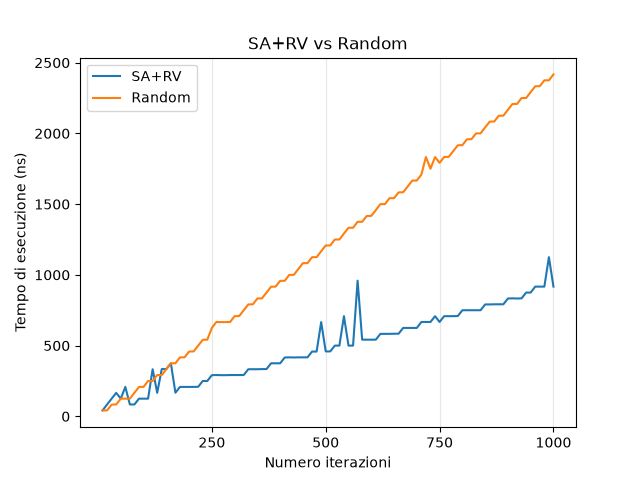
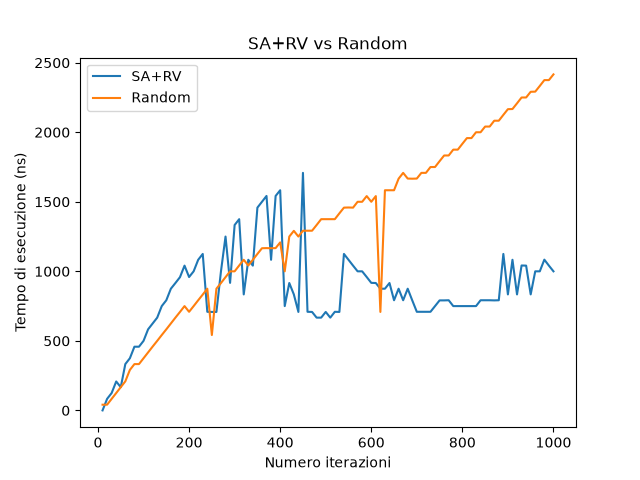
prime_probe

diff --git a/lap-training/lap.c b/lap-training/lap.c
@@ -1,0 +1,202 @@
+#include <stdio.h>
+#include <stdlib.h>
+#include <mach/mach_time.h>
+
+#define DATA_SIZE (1024*1024)
+#define STRIDE 32
+
+uint8_t data_buf[DATA_SIZE];
+
+struct Node {
+    struct Node *next;
+    uint8_t *data;
+};
+
+#define LAP_ITERS 500
+
+#define NODES (LAP_ITERS + 1)
+
+struct Node nodes[NODES];
+
+#define PROBE_SIZE (64*1024*1024)
+uint8_t probe_buf[PROBE_SIZE] = {0};
+
+#define EVICTION_SIZE 8
+uint8_t *eviction_set[EVICTION_SIZE];
+
+#define CACHELINE_SIZE 128
+#define BATCH_ROUNDS 150
+
+
+// --- INLINE ASSEMBLY HELPERS ---
+static inline void maccess(const void *ptr) {
+    asm volatile("ldr xzr, [%0]" : : "r"(ptr) : "memory");
+}
+
+static inline void serialize(void) {
+    asm volatile("dsb sy; isb" ::: "memory");
+}
+
+void walk(struct Node *n)
+{
+    while(n != NULL)
+    {
+        volatile uint8_t x = *(n->data);
+        n = n->next;
+    }
+}
+
+static inline uint64_t get_ticks(void) {
+    uint64_t val;
+    asm volatile("isb; mrs %0, cntvct_el0" : "=r"(val) :: "memory");
+    return val;
+}
+
+static uint64_t measure_target_latency_batch(const void *ptr) {
+    uint64_t start = get_ticks();
+    for (int i = 0; i < BATCH_ROUNDS; i++) {
+        maccess(ptr);
+    }
+    serialize();
+    uint64_t end = get_ticks();
+    return end - start;
+}
+
+// --- COSTRIZIONE EMPIRICA EVICTION SET ---
+
+#define CANDIDATE_POOL_SIZE 32 // Gruppo iniziale sufficiente per garantire 8 collisioni
+
+// Funzione ausiliaria: verifica se l'INTERO gruppo 'group' caccia via 'target_ptr'
+static int test_group_evicts_target(void *target_ptr, uint8_t **group, int group_size) {
+    int evicts = 0;
+
+    for (int trial = 0; trial < 8; trial++) {
+        // 1. Metti il target in cache L1D
+        maccess(target_ptr);
+        serialize();
+
+        // 2. Accedi a TUTTE le linee valide del gruppo
+        for (int i = 0; i < group_size; i++) {
+            if (group[i] != NULL) {
+                maccess(group[i]);
+            }
+        }
+        serialize();
+
+        // 3. Misura se il target è caduto fuori dalla L1D
+        if (measure_target_latency_batch(target_ptr) > 1) {
+            evicts++;
+        }
+    }
+
+    return (evicts >= 6); // Ritorna vero se espelle con successo almeno 6 volte su 8
+}
+
+// --- COSTRUZIONE TOP-DOWN (GROUP REDUCTION) EVICTION SET ---
+void find_eviction_set(void *target_ptr) {
+    uint8_t *candidates[CANDIDATE_POOL_SIZE];
+    int cand_count = 0;
+
+    uintptr_t target_page_offset = ((uintptr_t)target_ptr >> 7) & 0x3F;
+    size_t total_lines = PROBE_SIZE / CACHELINE_SIZE;
+
+    printf("[*] Raccolta del gruppo iniziale di 32 candidati per %p...\n", target_ptr);
+
+    // FASE 1: Raccogli 32 candidati che hanno gli stessi bit di offset (Bit 7..11)
+    for (size_t i = 0; i < total_lines && cand_count < CANDIDATE_POOL_SIZE; i++) {
+        uint8_t *cand = &probe_buf[i * CACHELINE_SIZE];
+        if (cand == target_ptr) continue;
+
+        uintptr_t cand_page_offset = ((uintptr_t)cand >> 7) & 0x3F;
+        if (cand_page_offset == target_page_offset) {
+            candidates[cand_count++] = cand;
+        }
+    }
+
+    if (cand_count < CANDIDATE_POOL_SIZE) {
+        printf("[-] Errore: Trovati solo %d candidati con offset compatibile.\n", cand_count);
+        exit(1);
+    }
+
+    // Verifica che i 32 presi TUTTI INSIEME riescano a cacciare il target
+    if (!test_group_evicts_target(target_ptr, candidates, cand_count)) {
+        printf("[-] Errore: Il gruppo da 32 non riesce a svuotare il cassetto L1D!\n");
+        exit(1);
+    }
+
+    printf("[+] Gruppo iniziale valido. Inizio sfoltimento da 32 a 8 linee...\n");
+
+    // FASE 2: Sfoltimento (Group Reduction) - Rimuovi le linee inutili una ad una
+    int current_size = cand_count;
+    
+    for (int i = 0; i < current_size && current_size > EVICTION_SIZE; i++) {
+        uint8_t *temp = candidates[i];
+        candidates[i] = NULL; // Togliamo temporaneamente la linea i-esima dal sacco
+
+        // Se SENZA questa linea il gruppo caccia ANCORA il target...
+        if (test_group_evicts_target(target_ptr, candidates, current_size)) {
+            // ...significa che non serviva! La eliminiamo compattando l'array
+            for (int j = i; j < current_size - 1; j++) {
+                candidates[j] = candidates[j + 1];
+            }
+            current_size--;
+            i--; // Ririprova dall'indice corrente dopo la compattazione
+        } else {
+            // ...se il target NON cade più, la linea era FONDAMENTALE. La rimettiamo!
+            candidates[i] = temp;
+        }
+    }
+
+    // Copia le 8 linee finali nell'array globale
+    for (int i = 0; i < EVICTION_SIZE; i++) {
+        eviction_set[i] = candidates[i];
+        printf("  [+] Linea Eviction Set %d/8: %p\n", i + 1, (void*)eviction_set[i]);
+    }
+
+    printf("[*] Eviction Set da 8 linee trovato con successo!\n");
+}
+
+void prime_probe_attack(){
+
+    for(int i = 0; i < EVICTION_SIZE; i++){
+        volatile uint8_t x = *eviction_set[i];
+    }
+
+    walk(&nodes[0]);
+    uint64_t total_latency = 0;
+    for(int i = 0; i < EVICTION_SIZE; i++){
+        uint64_t start = get_ticks();
+        volatile uint8_t x = *eviction_set[i];
+        uint64_t end = get_ticks();
+        printf("%lu\n", end-start);
+    }
+}
+
+void verifica_lap(){
+    // buffer con stride
+    memset(data_buf, 0, DATA_SIZE);
+    data_buf[(NODES - 2) * STRIDE] = 0x11;   // valore reale
+    data_buf[(NODES - 1) * STRIDE] = 0x42;   // valore target speculativo
+
+    // crea linked list
+    for(int i = 0; i < NODES - 1; i++){
+        nodes[i].data = &data_buf[i * STRIDE];
+        nodes[i].next = &nodes[i+1];
+    }
+
+    nodes[NODES-1].data = &data_buf[(NODES-1)*STRIDE];
+    nodes[NODES-1].next = NULL;
+
+    // allena lap
+    for(int i = 0; i < LAP_ITERS; i++){
+        walk(&nodes[0]);
+    }
+
+    // misprediction
+    nodes[NODES-1].data = &data_buf[(NODES-2) * STRIDE];
+    nodes[NODES-1].next = NULL;
+
+    uint8_t *target = &data_buf[(NODES-1)*STRIDE];
+}
+
+

diff --git a/exec-time/stride.c b/exec-time/stride.c
@@ -1,4 +1,3 @@
-#include "utils.h"
 #include <mach/mach_time.h>
 #include <pthread.h>
 #include <stdio.h>
@@ -21,7 +20,7 @@
 #define S (STRIDE_BYTES / sizeof(int))
 
 // Numero di misure eseguite per ciascun valore di ITERS.
-#define TRIES 10000
+#define TRIES 100
 
 /**
  * Compara due numeri, restituendo il minore.
@@ -178,17 +177,9 @@ void measure(int ITERS, uint64_t *link_time, uint64_t *rand_time,
   // misura array casuale
   *rand_time = stride(array, ITERS);
 
-<<<<<<< HEAD
 	for(int i = 0; i < ITERS; i++) {
-		array[i*S] = ((rand() % (ITERS-1)) + 1) * S;
+		array[i * S] = ((rand() % (ITERS - 1)) + 1) * S;
 	}
-	
-=======
-  // inizializza array SA + RV con valori casuali multipli di S 
-  for (int i = 0; i < ITERS; i++) {
-    array[i * S] = ((rand() % (ITERS - 1)) + 1) * S;
-  }
->>>>>>> 7ce08b8f4b1464df3294cc2e5a8b727be8da9eda
 
   // misura array SA + RV
   *sarv_time = sarv(array, ITERS);
@@ -217,9 +208,9 @@ int compare(const void *a, const void *b) {
  * Esegue la serie di misure della latenza di accesso alla memoria.
  *
  * Per ciascun valore di ITERS vengono effettuate TRIES misure dei pattern
- * collegato e casuale. I tempi mediani ottenuti vengono stampati, formato CSV:
+ * collegato, casuale e sa+rv. I tempi mediani ottenuti vengono stampati, formato CSV:
  *
- *     ITERS, link_time, random_time
+ *     ITERS, link_median, random_median, sarv_median
  *
  * @return EXIT_SUCCESS.
  */
